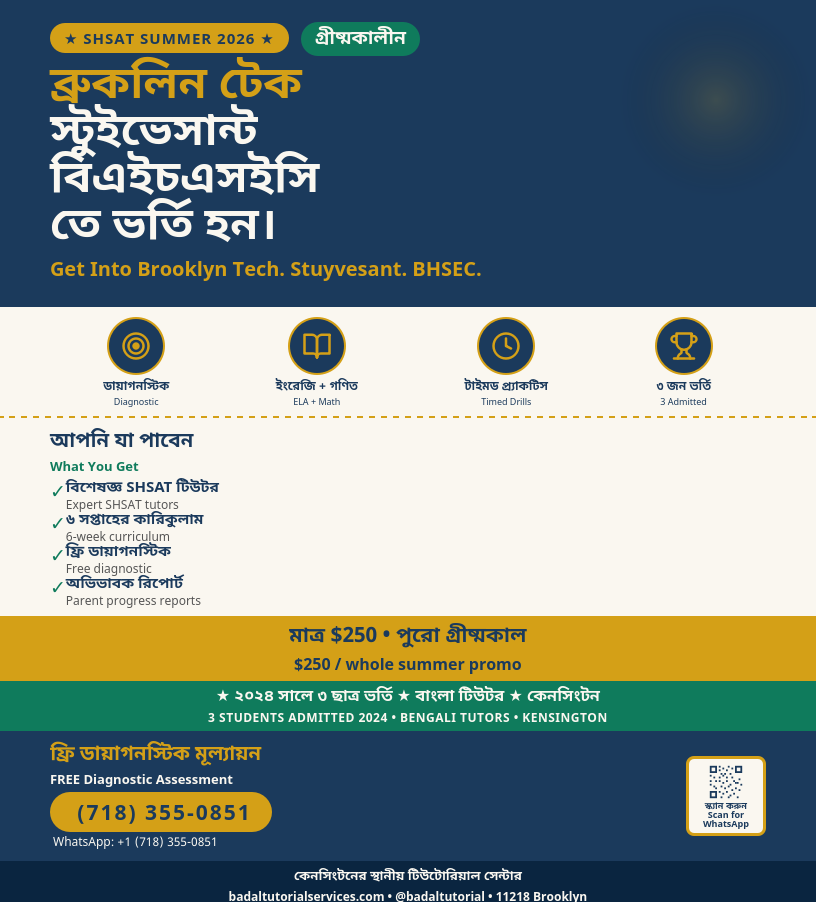
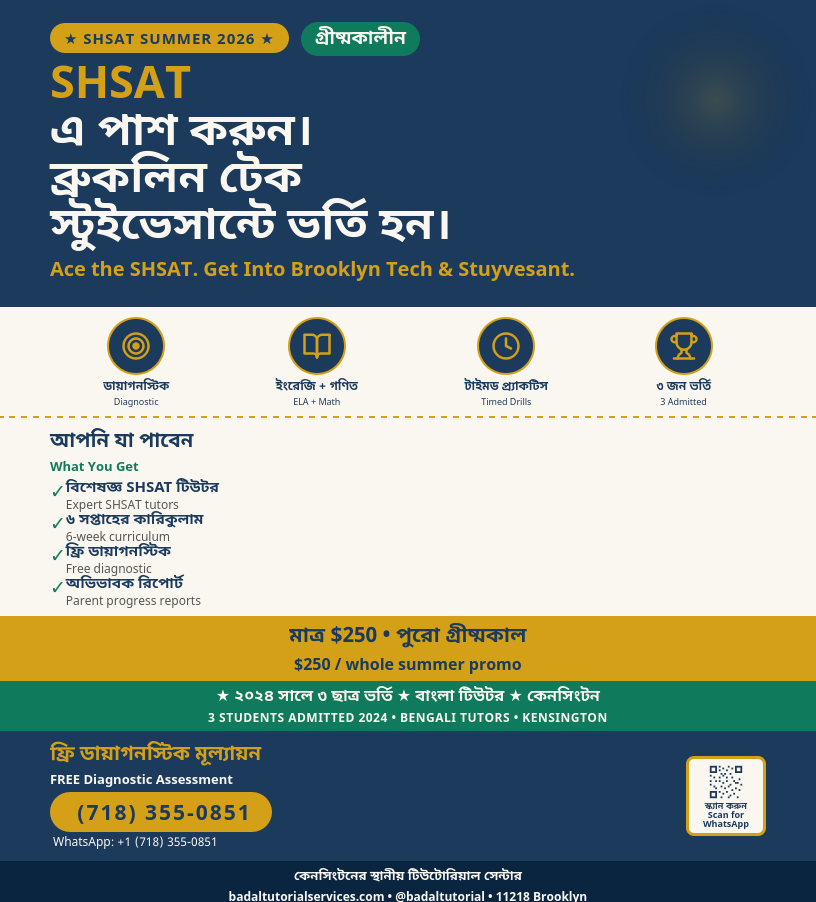
Regents: summer promo. SHSAT: lead with SHSAT, schools as outcome

Changed region(s): [[0.0613, 0.0621, 0.7047, 0.3104]]

diff --git a/flyers/shsat-bn.html b/flyers/shsat-bn.html
@@ -69,8 +69,8 @@
       <span class="badge">★ SHSAT SUMMER 2026 ★</span>
       <span class="badge-bn">গ্রীষ্মকালীন</span>
     </div>
-    <div class="headline-bn"><span class="accent">ব্রুকলিন টেক</span><br>স্টুইভেসান্ট<br>বিএইচএসইসি<br>তে ভর্তি হন।</div>
-    <div class="headline-en">Get Into Brooklyn Tech. Stuyvesant. BHSEC.</div>
+    <div class="headline-bn"><span class="accent">SHSAT</span><br>এ পাশ করুন।<br>ব্রুকলিন টেক<br>স্টুইভেসান্টে ভর্তি হন।</div>
+    <div class="headline-en">Ace the SHSAT. Get Into Brooklyn Tech & Stuyvesant.</div>
   </div>
 
   <div class="illustration">

diff --git a/flyers/regents-bn.html b/flyers/regents-bn.html
@@ -69,8 +69,8 @@
       <span class="badge">★ REGENTS JUNE 2026 ★</span>
       <span class="badge-bn">জুন ২০২৬</span>
     </div>
-    <div class="headline-bn">রিজেন্টস পরীক্ষা<br><span class="accent">২ সপ্তাহে?</span><br>আমরাই<br>প্রস্তুত করব।</div>
-    <div class="headline-en">Regents in 2 Weeks? We'll Get You Ready.</div>
+    <div class="headline-bn">রিজেন্টস পরীক্ষা<br><span class="accent">গ্রীষ্মকালে</span><br>আমরাই<br>প্রস্তুত করব।</div>
+    <div class="headline-en">Regents This Summer? We'll Get You Ready.</div>
   </div>
 
   <div class="illustration">
